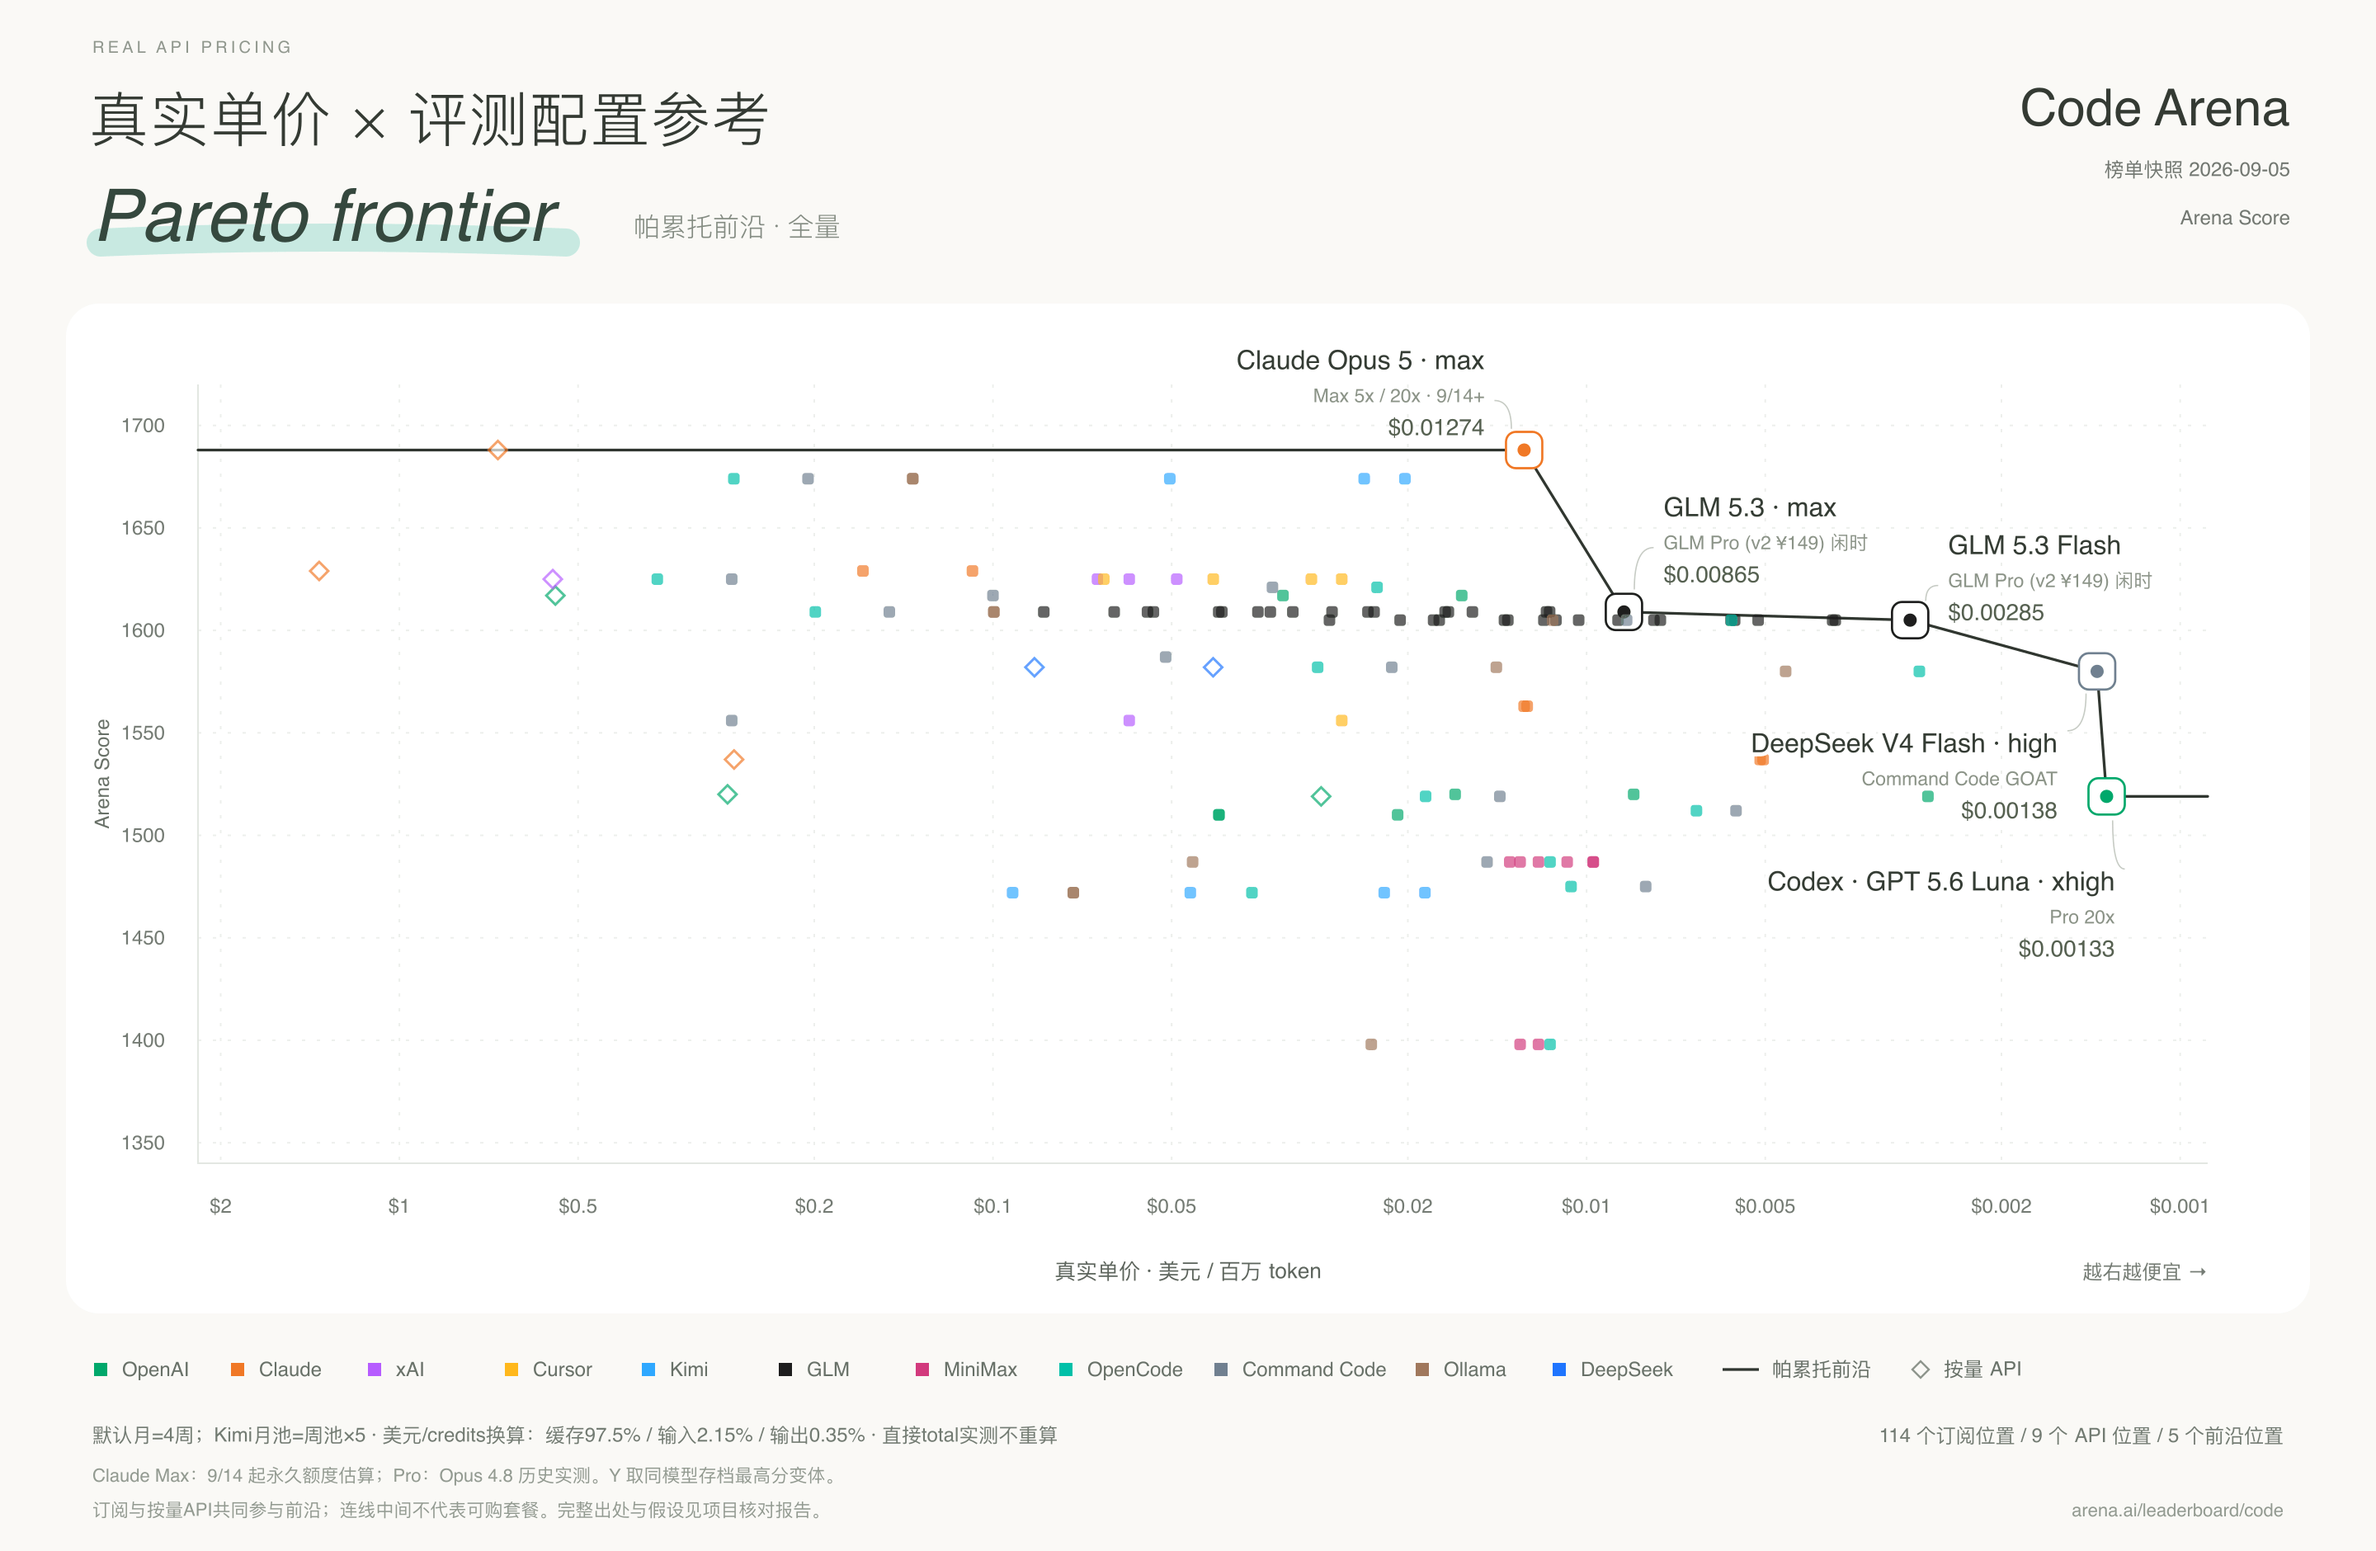
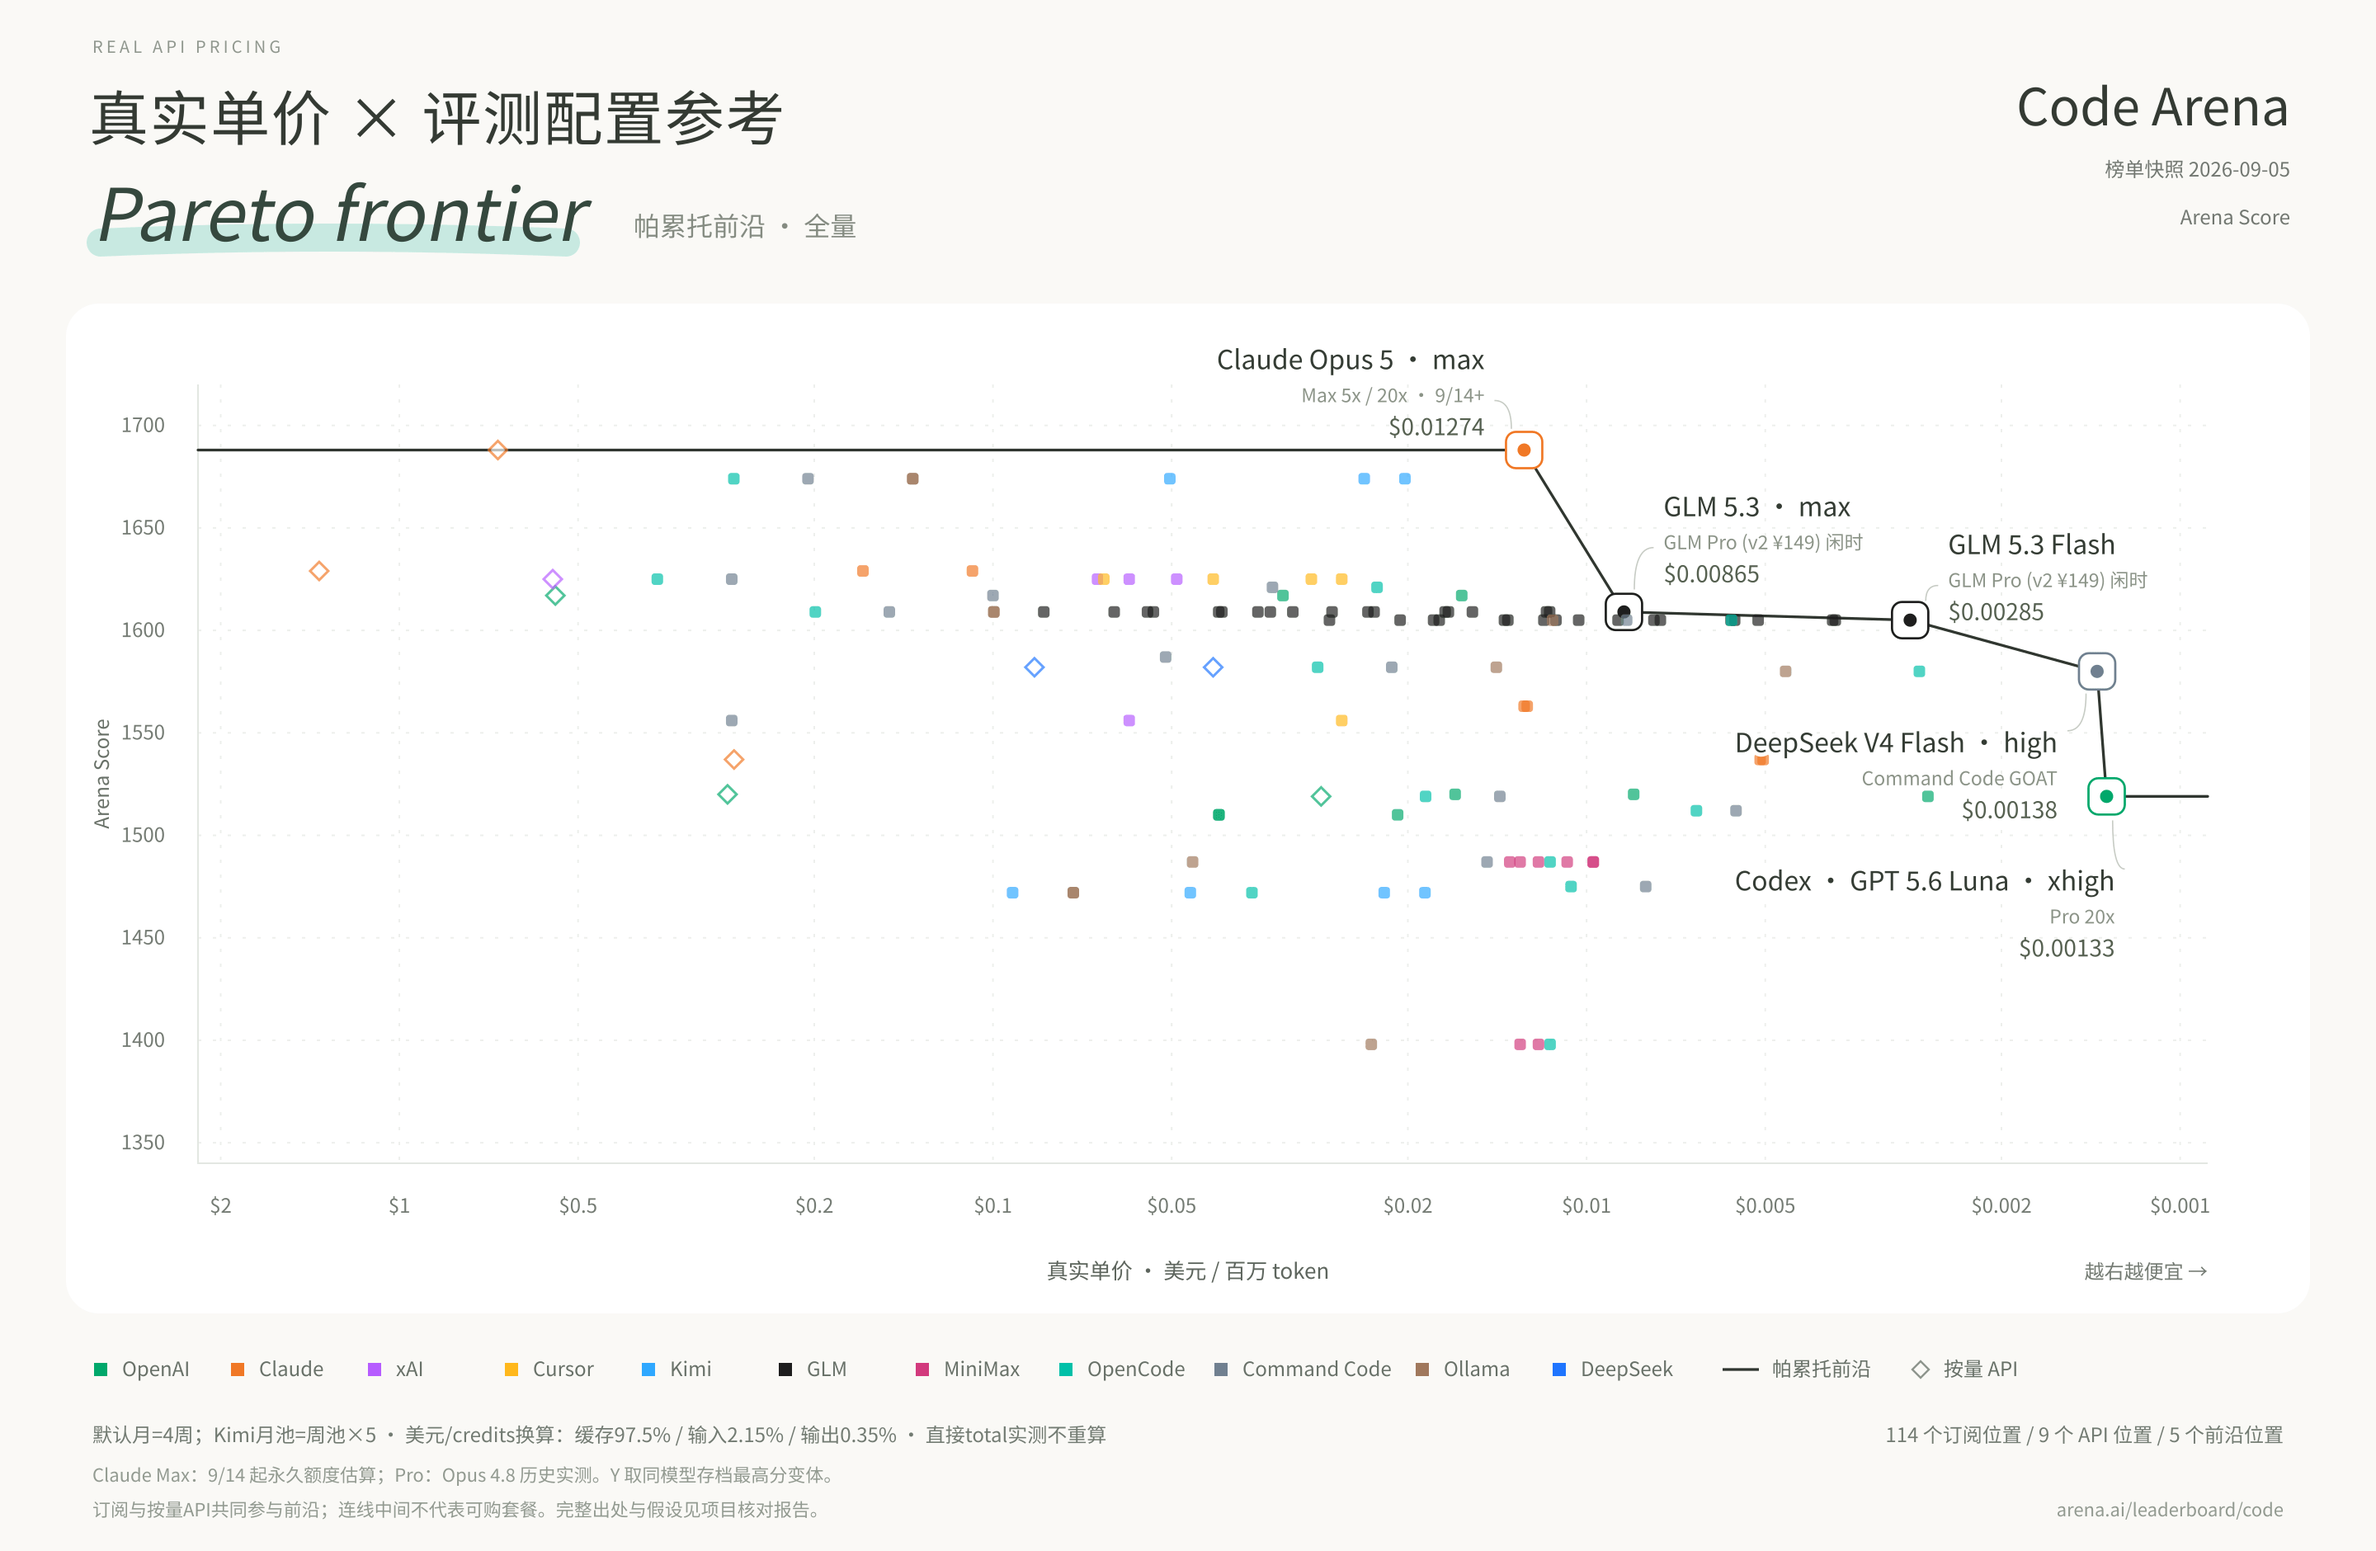
chore(charts): align canonical PNG artifacts

diff --git a/scripts/chart_environment.py b/scripts/chart_environment.py
@@ -112,12 +112,10 @@ def configure_matplotlib(*, required: bool | None = None) -> Path | None:
         resolved = Path(
             font_manager.findfont(CANONICAL_FONT_NAME, fallback_to_default=False)
         ).resolve()
-        # Fontconfig may already have the same verified file registered under
-        # its install directory (for example ``~/.local/share/fonts`` in CI),
-        # while ``addfont`` registers the workspace copy above.  The path is
-        # therefore allowed to differ as long as the selected bytes are still
-        # the pinned canonical font.  Rejecting a different checksum keeps a
-        # same-family system font from silently changing glyph metrics.
+        if resolved != path:
+            raise RuntimeError(
+                f"Canonical font resolution mismatch: expected {path}, got {resolved}"
+            )
         resolved_hash = sha256(resolved)
         if resolved_hash != CANONICAL_FONT_SHA256:
             raise RuntimeError(

diff --git a/scripts/compute.py b/scripts/compute.py
@@ -124,11 +124,13 @@ def main() -> None:
     for name, records in (("benchmark-configurations", scores), ("benchmark-points", configuration_points)):
         with (OUT / (name + ".csv")).open("w", encoding="utf-8-sig", newline="") as f:
             fields = [k for k in records[0] if k != "raw_record"]
-            writer = csv.DictWriter(f, fieldnames=fields, extrasaction="ignore")
+            writer = csv.DictWriter(
+                f, fieldnames=fields, extrasaction="ignore", lineterminator="\n"
+            )
             writer.writeheader()
             writer.writerows(records)
     with (OUT / "points.csv").open("w", encoding="utf-8-sig", newline="") as f:
-        w = csv.DictWriter(f, fieldnames=list(points[0].keys()))
+        w = csv.DictWriter(f, fieldnames=list(points[0].keys()), lineterminator="\n")
         w.writeheader()
         w.writerows(points)
     (OUT / "points.json").write_text(json.dumps(dict(

diff --git a/scripts/generate_publication.py b/scripts/generate_publication.py
@@ -166,7 +166,10 @@ def ensure_canonical_font(root: Path, env: dict[str, str]) -> None:
     # canonical runs; CI installs this directory in its setup step.
     if shutil.which("fc-cache"):
         run(["fc-cache", "-f", str(install_dir)], root, env)
-    env["REAL_API_PRICING_FONT_PATH"] = str(font_dir / FONT_FILENAME)
+    # Point Matplotlib at the same fontconfig path that librsvg/Sharp uses.
+    # This makes the resolved path check strict even when a workspace copy
+    # and an installed copy are both present.
+    env["REAL_API_PRICING_FONT_PATH"] = str(install_dir / FONT_FILENAME)
 
 
 def run_pipeline(root: Path, *, canonical: bool, preserve_legacy: bool = True) -> None:

diff --git a/scripts/build_adopted.py b/scripts/build_adopted.py
@@ -423,7 +423,7 @@ def main() -> None:
                          decision_note=f"标价 cached {cached}/in {inp}/out {out} × 项目统一标准负载 {STANDARD_MIX['cache']:.1%}/{STANDARD_MIX['input']:.2%}/{STANDARD_MIX['output']:.2%}"))
 
     with OUT.open("w", encoding="utf-8-sig", newline="") as f:
-        w = csv.DictWriter(f, fieldnames=FIELDS)
+        w = csv.DictWriter(f, fieldnames=FIELDS, lineterminator="\n")
         w.writeheader()
         w.writerows(rows)
     print(f"{len(rows)} rows -> {OUT}")

diff --git a/scripts/checks/verify_reproducibility.py b/scripts/checks/verify_reproducibility.py
@@ -11,4 +11,3 @@ result = subprocess.run(
     cwd=ROOT,
 )
 raise SystemExit(result.returncode)
-

diff --git a/BUILD.md b/BUILD.md
@@ -8,7 +8,7 @@ its CDN.
 The canonical entry point is:
 
 ```sh
-python -m pip install -r requirements.txt
+python -m pip install -r requirements.lock
 npm ci
 python scripts/generate_publication.py
 ```
